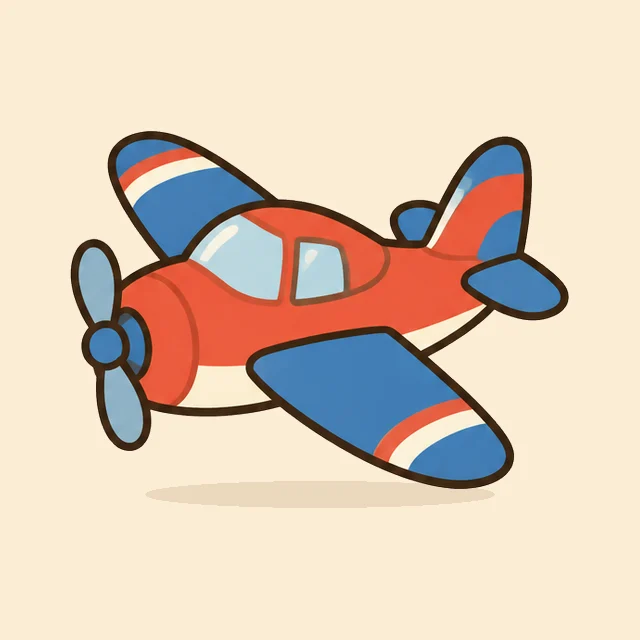
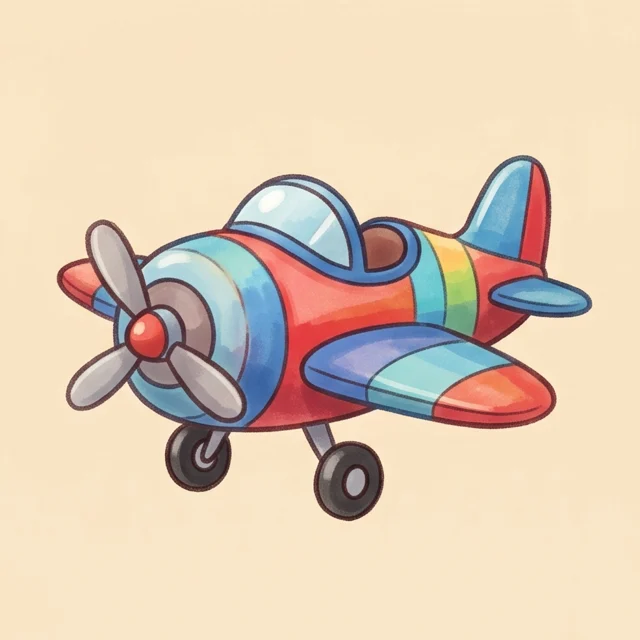
原題庫 16 張插畫全部改用 Gemini 重新生成，畫風統一

diff --git a/app.js b/app.js
@@ -26,7 +26,7 @@ function defaults() {
     stickers: [],
   };
 }
-// 原題庫：AI 生成的插畫（bank/ 資料夾，ChatGPT＋Canva），每張圖一題
+// 原題庫：Gemini 生成的插畫（bank/ 資料夾），每張圖一題
 function sampleMatch() {
   return [['apple', '蘋果', true], ['banana', '小黃瓜', false], ['puppy', '小狗', true], ['car', '公車', false],
     ['umbrella', '雨傘', true], ['cat', '老虎', false], ['sunflower', '向日葵', true], ['bicycle', '摩托車', false],

diff --git a/README.md b/README.md
@@ -23,7 +23,7 @@
 - **下載教案／上傳教案**：存成 `.教案.json`，裡面包含圖片、Logo 和自訂音樂，可以分享給其他老師
 
 ## 檔案
-- `bank/`：原題庫插畫 16 張（ChatGPT 與 Canva AI 生成）
+- `bank/`：原題庫插畫 16 張（Gemini 生成）
 - `render.js`：畫面渲染（預覽、播放、匯出共用）
 - `audio.js`：背景音樂合成、音效包、離線混音
 - `export.js`：WebCodecs 逐格編碼，用 mp4-muxer 封裝
